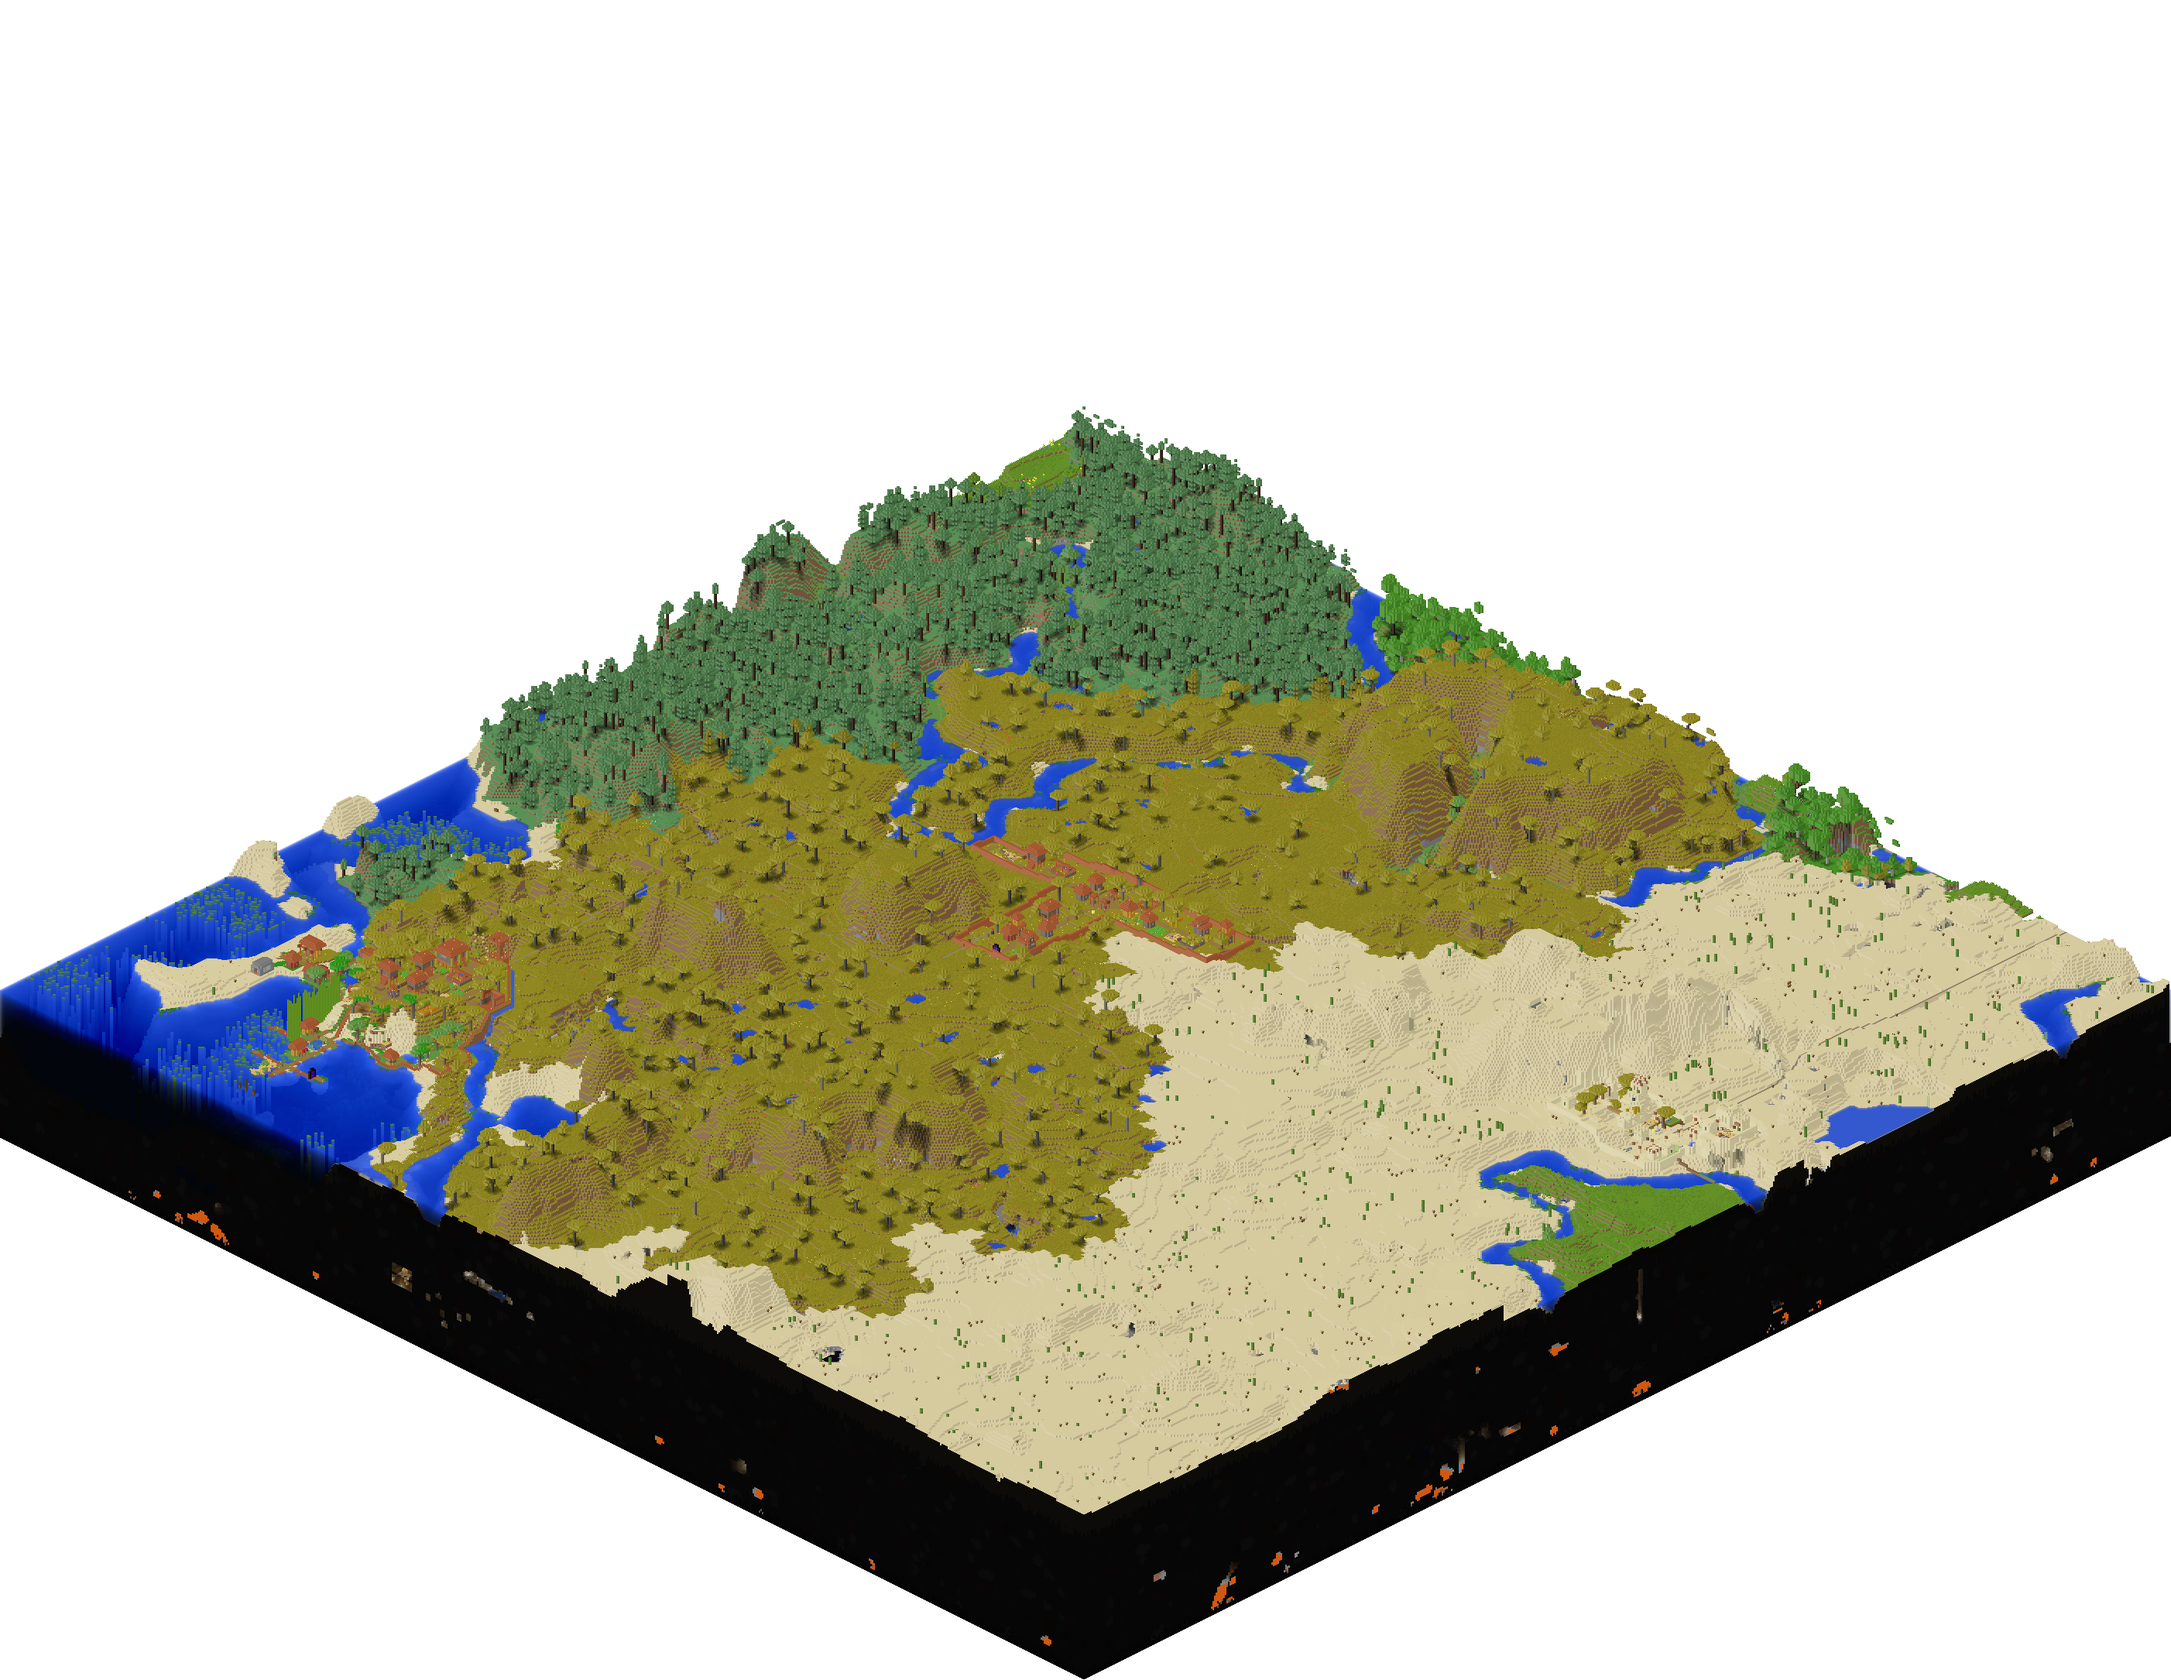
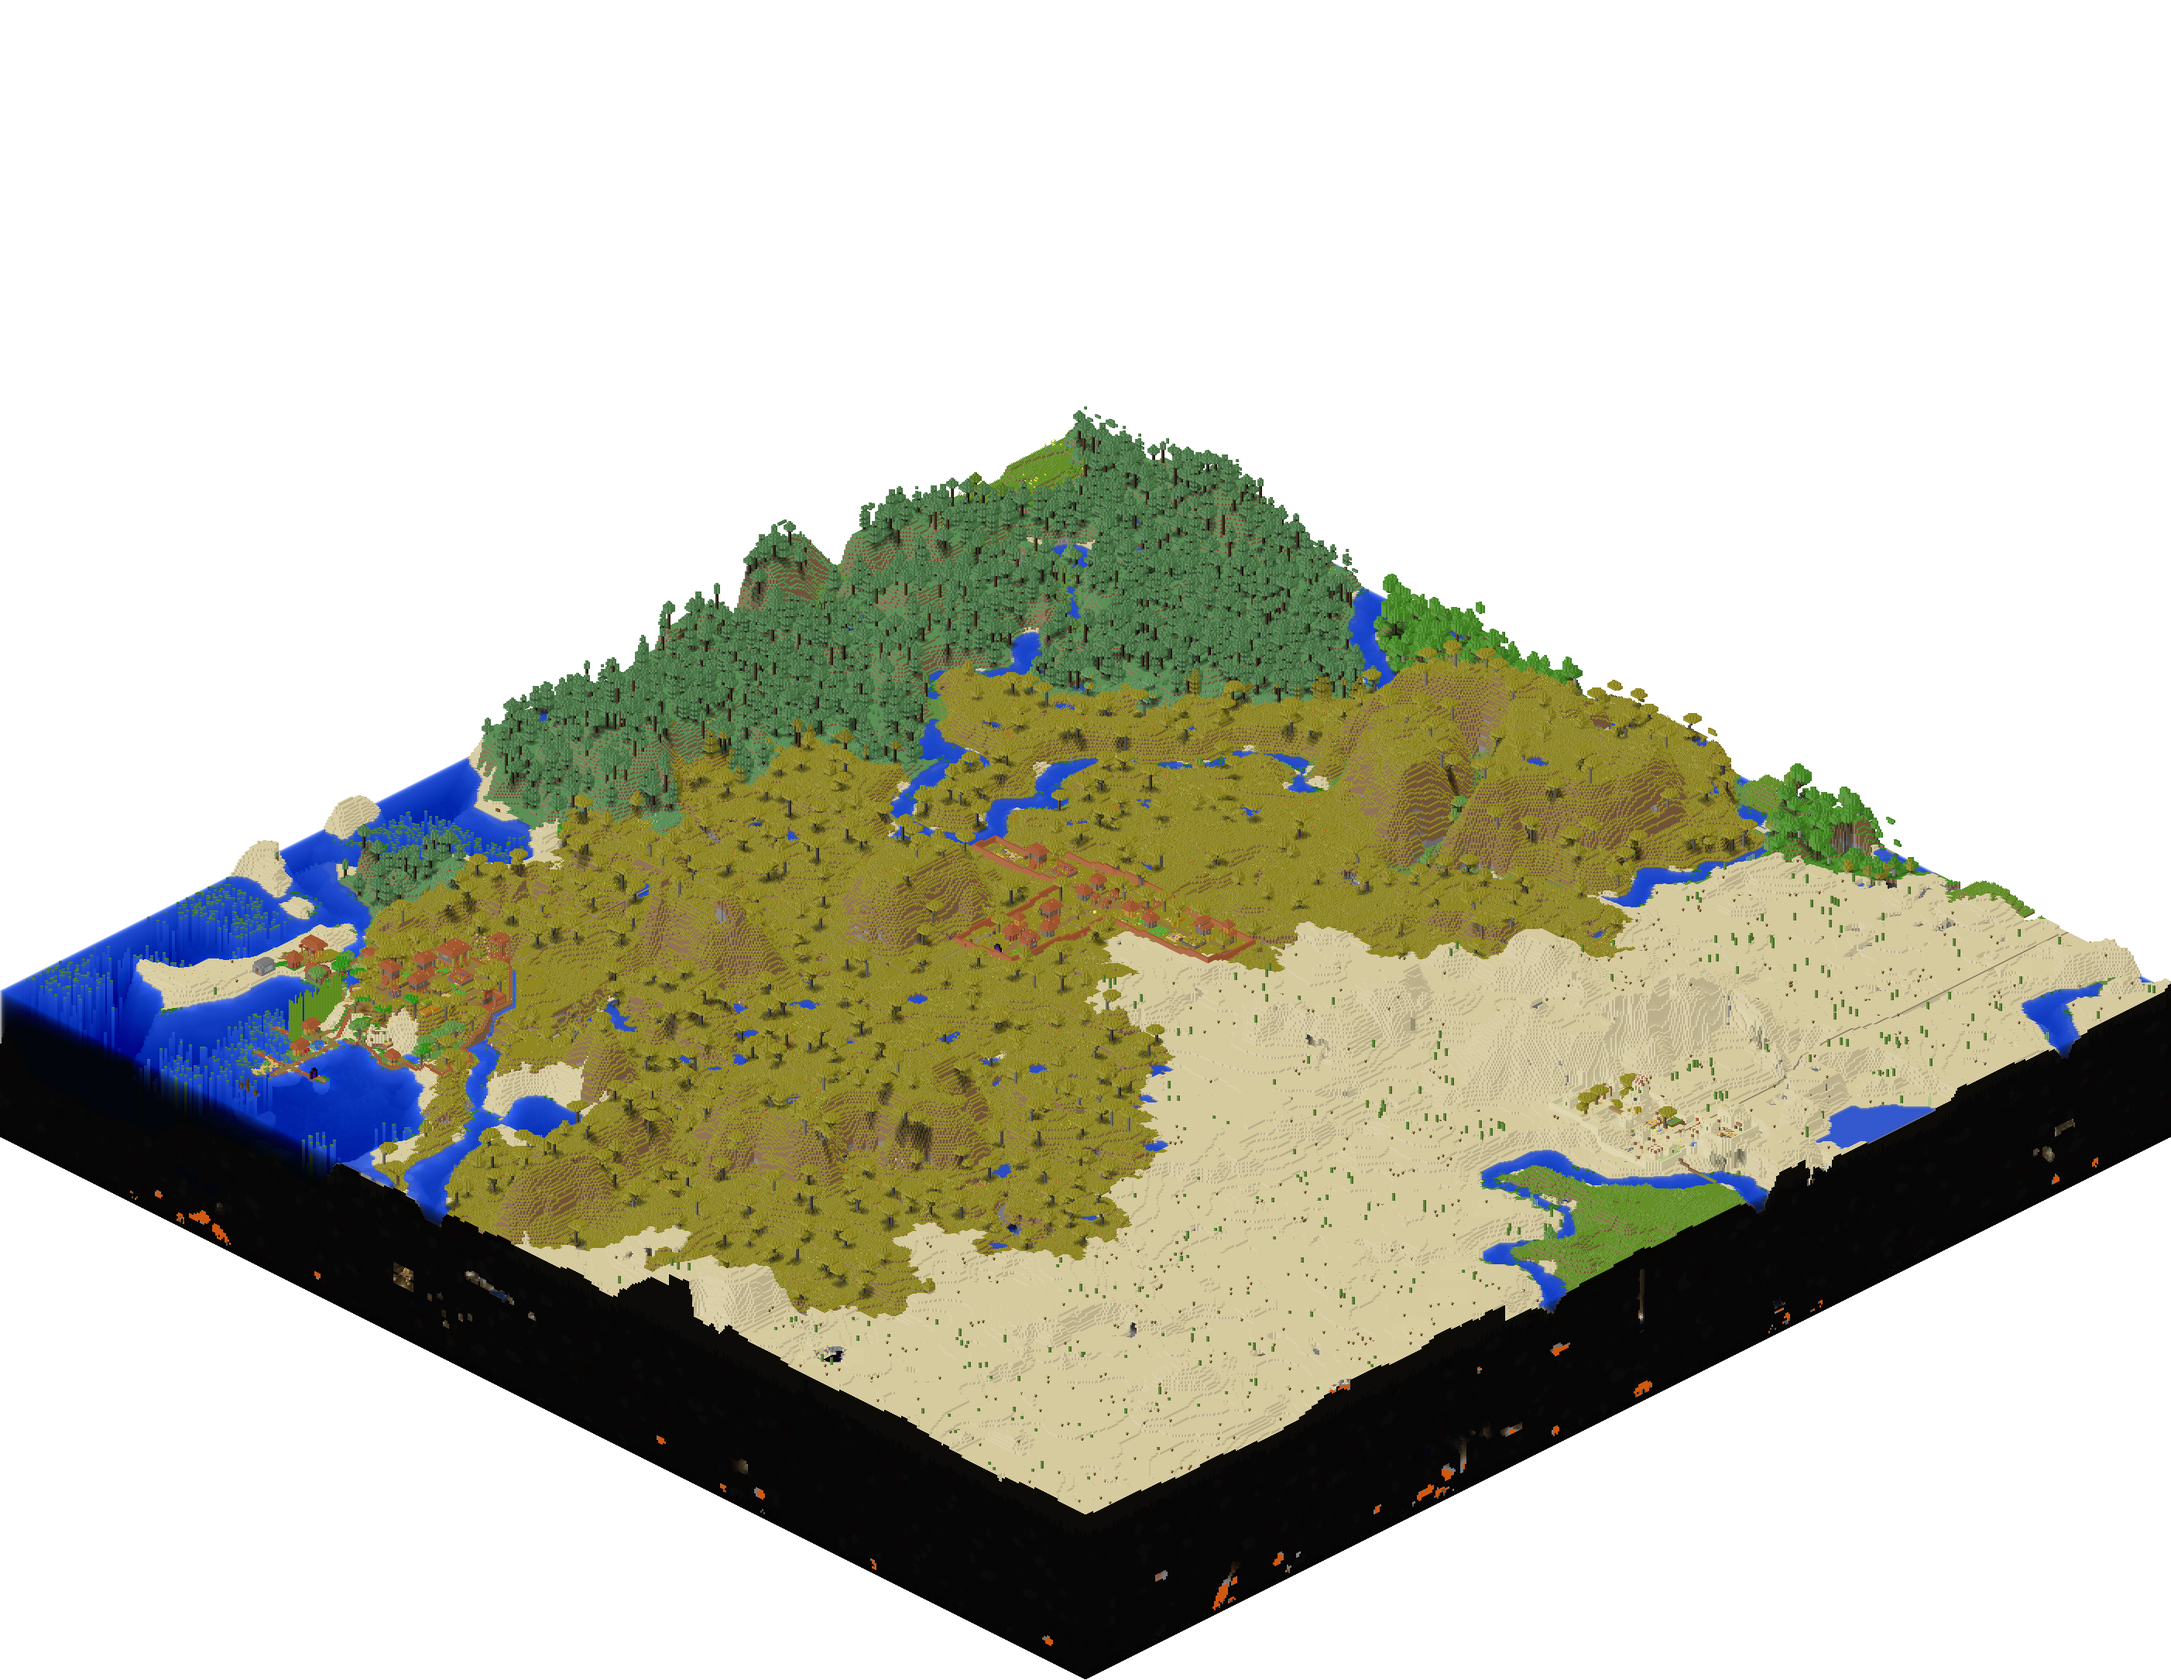
Fix some colour bugs in isometric mode
Use non-solid blocks' own light values instead of neighbours' for side colours.
Lighting seems to be smoother overall, and a lot of black pixel bugs are fixed, particularly on grass.

Changed region(s): [[0.031, 0.247, 1.0, 0.8645]]

diff --git a/src/isomap.rs b/src/isomap.rs
@@ -13,6 +13,8 @@ use super::world::World;
 
 fn draw_chunk(pixels: &mut [u8], blocktypes: &[BlockType], chunk: &region::Chunk, co: &isize,
     width: &usize, cblimits: &Edges<usize>, ylimits: &Range<usize>) {
+    let blank_color = RGBA::default();
+
     for bz in (cblimits.n..(cblimits.s + 1)).rev() {
         for bx in (cblimits.w..(cblimits.e + 1)).rev() {
             let bo2 = bz * BLOCKS_IN_CHUNK + bx;
@@ -31,32 +33,47 @@ fn draw_chunk(pixels: &mut [u8], blocktypes: &[BlockType], chunk: &region::Chunk
                     continue;
                 }
 
-                // Get the base color of the block.
+                // Create an index of colors corresponding to the digits in the block shape.
+                let mut bcolors = [&blank_color; 7];
+
+                // Get the block above this one.
                 let tblock = chunk.get_t_block(&by, &bo3, ylimits.end - 1);
-                let tcolor = &blocktype.colors[biome][tblock.slight][tblock.blight][1];
-                let tcolor2 = &blocktype.colors[biome][tblock.slight][tblock.blight][4];
                 // Don't draw the top if the block above is the same as this one and solid.
                 // This prevents stripes appearing in columns of translucent blocks.
                 let skip_top = tblock.btype == btype && blocktype.solid;
 
-                // Add a hilight if block to the left has skylight and is not solid.
-                let lblock = chunk.get_s_block(&bz, &bo3);
-                let lblocktype = &blocktypes[lblock.btype as usize];
-                let lshade = if lblock.slight > 0 && !lblocktype.solid { 2 } else { 1 };
-                let lcolor = &blocktype.colors[biome][lblock.slight][lblock.blight][lshade];
-                let lcolor2 = &blocktype.colors[biome][lblock.slight][lblock.blight][lshade + 3];
+                // Get the base color of the block, using light values from the block above.
+                // TODO: are there cases where it's preferable to use the block's own light values?
+                bcolors[1] = &blocktype.colors[biome][tblock.slight][tblock.blight][1];
+                bcolors[4] = &blocktype.colors[biome][tblock.slight][tblock.blight][4];
 
-                // Add a shadow if block to the right has skylight and is not solid.
-                // let rblock = chunk.get_s_block(&bz, &bo3);
-                let rblock = chunk.get_e_block(&bx, &bo3);
-                let rblocktype = &blocktypes[rblock.btype as usize];
-                let rshade = if rblock.slight > 0 && !rblocktype.solid { 3 } else { 1 };
-                let rcolor = &blocktype.colors[biome][rblock.slight][rblock.blight][rshade];
-                let rcolor2 = &blocktype.colors[biome][rblock.slight][rblock.blight][rshade + 3];
+                // If the block is solid, use light values from neighboring blocks for side colors.
+                // Otherwise use the block's own light values.
+                if blocktype.solid {
+                    // Add a hilight if block to the left has skylight and is not solid.
+                    let lblock = chunk.get_s_block(&bz, &bo3);
+                    let lblocktype = &blocktypes[lblock.btype as usize];
+                    let lshade = if lblock.slight > 0 && !lblocktype.solid { 2 } else { 1 };
+                    bcolors[2] = &blocktype.colors[biome][lblock.slight][lblock.blight][lshade];
+                    bcolors[5] = &blocktype.colors[biome][lblock.slight][lblock.blight][lshade + 3];
 
-                // Create an index of colors corresponding to the digits in the block shape.
-                let bcolors = [&RGBA::default(),
-                    &tcolor, &lcolor, &rcolor, &tcolor2, &lcolor2, &rcolor2];
+                    // Add a shadow if block to the right has skylight and is not solid.
+                    let rblock = chunk.get_e_block(&bx, &bo3);
+                    let rblocktype = &blocktypes[rblock.btype as usize];
+                    let rshade = if rblock.slight > 0 && !rblocktype.solid { 3 } else { 1 };
+                    bcolors[3] = &blocktype.colors[biome][rblock.slight][rblock.blight][rshade];
+                    bcolors[6] = &blocktype.colors[biome][rblock.slight][rblock.blight][rshade + 3];
+                } else {
+                    let light = chunk.data.lights[bo3];
+                    let slight = (light & 0x0f) as usize;
+                    let blight = ((light & 0xf0) >> 4) as usize;
+
+                    bcolors[2] = &blocktype.colors[biome][slight][blight][2];
+                    bcolors[5] = &blocktype.colors[biome][slight][blight][5];
+
+                    bcolors[3] = &blocktype.colors[biome][slight][blight][3];
+                    bcolors[6] = &blocktype.colors[biome][slight][blight][6];
+                }
 
                 let bpy = bpy2 + (MAX_BLOCK_IN_CHUNK_Y - by) * ISO_BLOCK_SIDE_HEIGHT;
 
